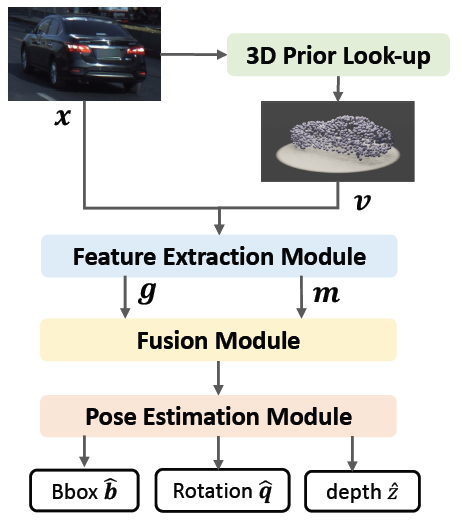
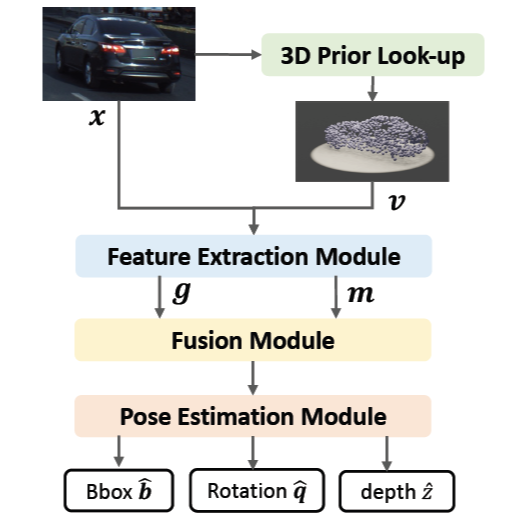
update mono6d pictures

diff --git a/index.html b/index.html
@@ -351,8 +351,8 @@
 		  <td style="padding:20px;width:25%;vertical-align:middle">
 			<div class="one">
 			  <div class="two" id='mono6d_boxplot'>
-				<img src='images_remco/protoseg_letter_prototypes.png' width="160"></div>
-			  <img src='images_remco/protoseg_letter_boxplot.jpg' width="160">
+				<img src='images_remco/mono6D_arch.png' width="160"></div>
+			  <img src='images_remco/mono6D_visual.jpg' width="160">
 			</div>
 			<script type="text/javascript">
 			  function mono6d_start() {
